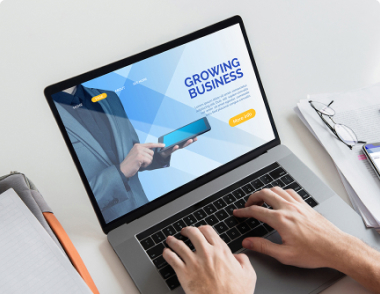
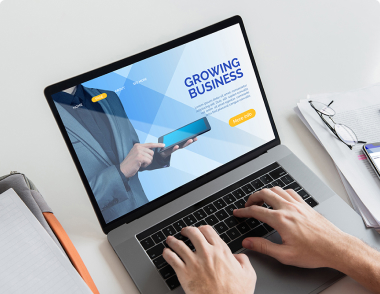
добавляет изображения

diff --git a/css/main.css b/css/main.css
@@ -3,14 +3,35 @@
     --title-text-color: #212121;
     --accent-text-color: #2196F3;
     --caption-text-color: #FFFFFF;
+    --button-bg-color: #F5F4FA;
 }
 
-
+body {
+    font-family: Roboto, sans-serif;
+    font-size: 14px;
+    line-height: 1.14;
+    letter-spacing: 0.02em;
+}
 /* navigation */
 
 .navigation, .contacts {
     color: var(--title-text-color);
+    font-style: 400;
+    font-weight: 500;
+    font-size: 14px;
+    line-height: 1,14;
+    letter-spacing: 0.02em;   
+}
+
+.navigation-link, 
+.contacts-link, 
+.caption-contacts,
+.caption-contacts {
     text-decoration: none;
+}
+
+.features-item {
+    list-style: none;
 }
 
 .navigation .navigation-link:hover,
@@ -18,6 +39,7 @@
 .contacts .contacts-link:hover,
 .contacts .contacts-link:focus {
     color: var(--accent-text-color);
+    
 }
 
 /* .contacts {
@@ -35,13 +57,32 @@
     color: var(--title-text-color);
 }
 
-.features .features-text,
-.main-text{
+.features-title {
+font-weight: 700;
+letter-spacing: 0.03em;
+text-transform: uppercase;
+}
+
+.features-text {
+    font-weight: 400;
+    line-height: 1.7;
+    letter-spacing: 0.03em;
+}
+
+.features .features-text {
     color: var(--main-text-color);
 }
 
 .title, .caption-title {
     color: var(--title-text-color);
+}
+
+.title {
+    font-weight: 700;
+    font-size: 36px;
+    line-height: 1.16;
+    text-align: center;
+    letter-spacing: 0.03em;
 }
 
 .caption-title {
@@ -50,10 +91,38 @@
     border-radius: 0px 0px 4px 4px;
     width: 380px;
     height: 70px;
+    font-weight: 700;
+    text-align: center;
+    letter-spacing: 0.03em;
+    text-transform: uppercase;
+}
+
+.team-list,
+.networks {
+    list-style: none;
+} 
+
+.team-list-title {
+font-weight: 500;
+font-size: 16px;
+line-height: 1.18;
+letter-spacing: 0.03em;
+}
+
+.main-text {
+    color: var(--main-text-color);
+    font-weight: 400;
+    font-size: 16px;
+    line-height: 1.18;
+    letter-spacing: 0.03em;
 }
 
 .features-pic:hover {
     background-color: var(--accent-text-color);
+}
+
+.customers {
+    list-style: none;
 }
 
 .caption-contacts {
@@ -70,4 +139,15 @@
 
 .team-section {
     background-color: #F5F4FA;;
+}
+
+button {
+    color: var(--title-text-color);
+    background-color: var(-button-bg-color);
+}
+
+button:hover,
+button:focus {
+    color: var(--caption-text-color);
+    background-color: var(--accent-text-color);
 }
